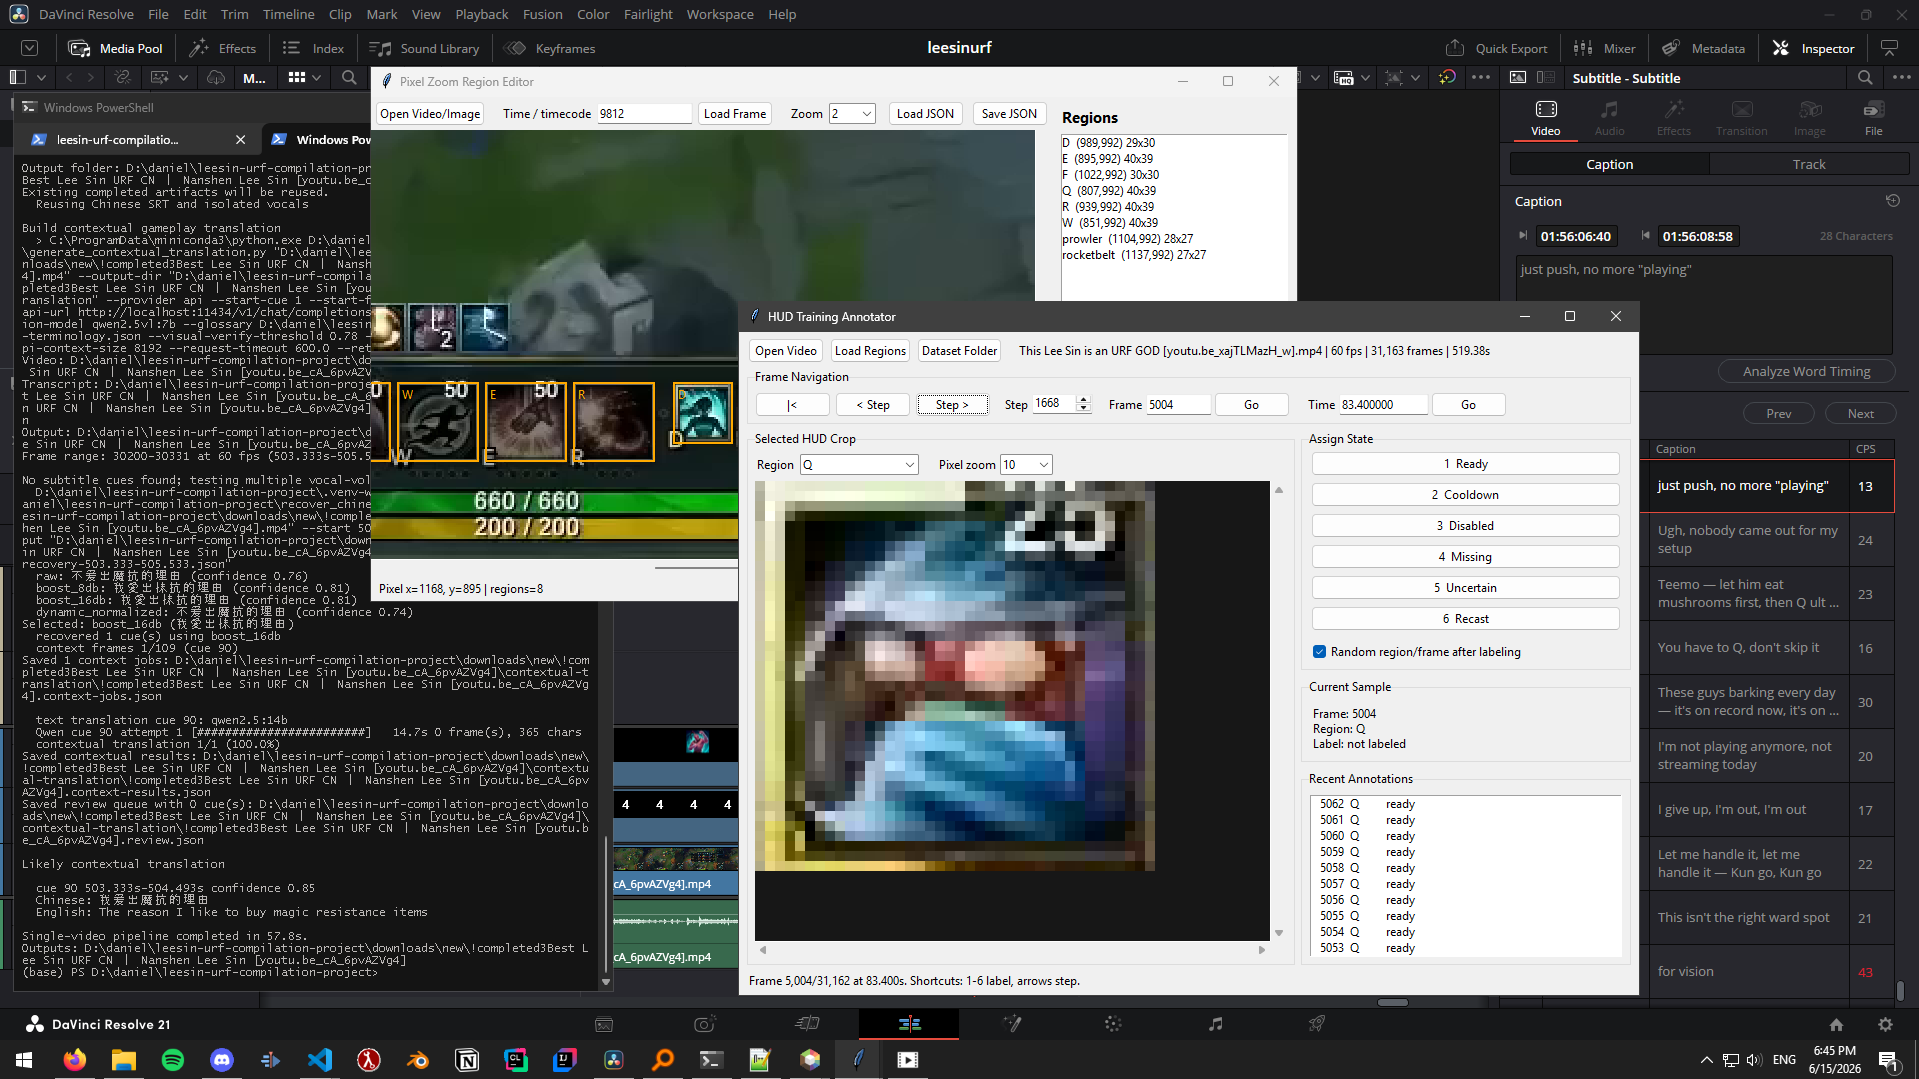
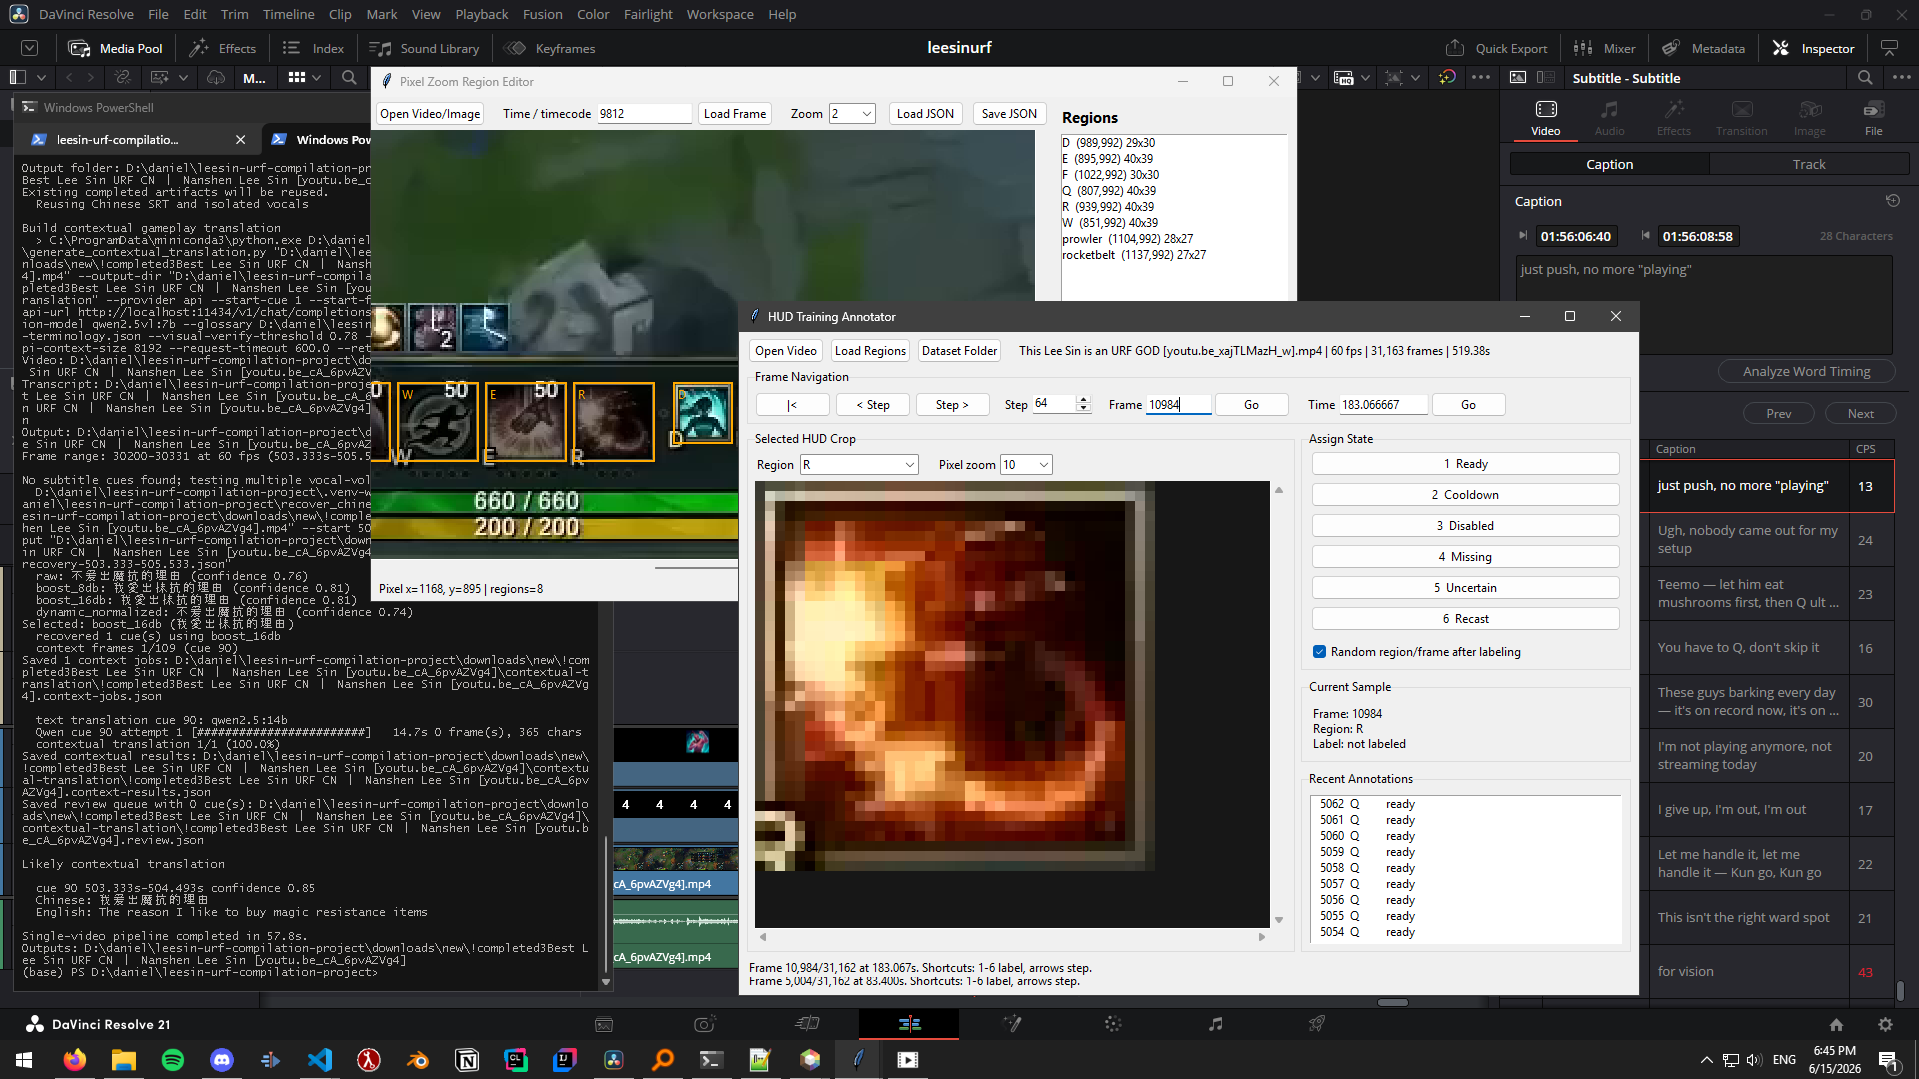
adjust 404 redirect

diff --git a/src/pages/Home/content/projects/contentProjectList.tsx b/src/pages/Home/content/projects/contentProjectList.tsx
@@ -101,20 +101,37 @@ export default function ProjectList() {
                 />
             </div>
 
-            <div class="custom-header" onClick={() => window.open("https://github.com/denialpan/dankeyboard", "_blank", "noopener,noreferrer")} style={{ cursor: "pointer" }}>
-                Lee Sin URF frame analysis/translation
-            </div>
-            <div onClick={() => window.open("https://github.com/denialpan/leesin-URF-analysis-translation", "_blank", "noopener,noreferrer")} style={{ cursor: "pointer" }}>
+            <Link class="custom-header project-link" href="/projects/leesinurf">
+                complex video analysis and audio translation
+            </Link>
+            <div>
                 <img src={leesinurf} alt="lee sin urf workflow" width={720} />
-
-                <div class="custom-caption custom-divider-bottom">
-                    custom frame analysis workflow with Chinese transcription and translation to English
+                <div class="custom-caption">
+                    a custom League of Legends video and audio tool pipeline to analyze sophisticated niche gameplay, and further translate casual Chinese commentary to English 
                     <ul>
                         <li>
+                            <b>OpenCV</b> - frame region extraction and icon recognition within a video
                         </li>
                         <li>
+                            <b>Whisper large-v3</b> - language transcription
+                        </li>
+                        <li>
+                            <b>UVR</b> - vocal isolation in noisy contexts
+                        </li>
+                        <li>
+                            <b>Qwen2.5-VL 14B</b> - Chinese to English translation 
+                        </li>
+                        <li>
+                            <b>Qwen2.5-VL 7B</b> - visual analysis of broad gameplay frames
+                        </li>
+                        <li>
+                            <b>Davinci Resolve</b> - multitrack video editing and SRT subtitle creation
                         </li>
                     </ul>
+                </div>
+
+                <div class="custom-divider-bottom">
+
                 </div>
             </div>
 
@@ -137,10 +154,7 @@ export default function ProjectList() {
                 </div>
             </div>
 
-            <Link
-                class="custom-header project-link"
-                href="/projects/minesweeper"
-            >
+            <Link class="custom-header project-link" href="/projects/minesweeper">
                 dansweeper
             </Link>
             <video

diff --git a/src/index.tsx b/src/index.tsx
@@ -21,6 +21,9 @@ function Portfolio() {
     );
 }
 
+const projectRoute = /^\/projects\/(minesweeper)\/?$/;
+const randomRoute = /^\/random\/(csgoanddesubticking|essentialprograms|preservation|test)\/?$/;
+
 export function App() {
     return (
         <main>
@@ -29,9 +32,9 @@ export function App() {
                     <Route path="/" component={Portfolio} />
                     <Route path="/about" component={Portfolio} />
                     <Route path="/projects" component={Portfolio} />
-                    <Route path="/projects/:slug" component={Portfolio} />
+                    <Route path={projectRoute} component={Portfolio} />
                     <Route path="/random" component={Portfolio} />
-                    <Route path="/random/:slug" component={Portfolio} />
+                    <Route path={randomRoute} component={Portfolio} />
                     <Route component={NotFound} />
                 </Switch>
             </Router>

diff --git a/src/style.css b/src/style.css
@@ -74,3 +74,7 @@ img {
 video {
     max-width: 100%;
 }
+
+ul {
+    margin-block: 0;
+}

diff --git a/public/404.html b/public/404.html
@@ -37,7 +37,7 @@
     <script>
         (function () {
             var route = window.location.pathname.replace(/^\/portfolio\/?/, '/');
-            var appRoute = /^\/(?:about|projects(?:\/[^/]+)?|random(?:\/[^/]+)?)\/?$/.test(route);
+            var appRoute = /^\/(?:about|projects(?:\/minesweeper)?|random(?:\/(?:csgoanddesubticking|essentialprograms|preservation|test))?)\/?$/.test(route);
 
             if (appRoute) {
                 sessionStorage.setItem(